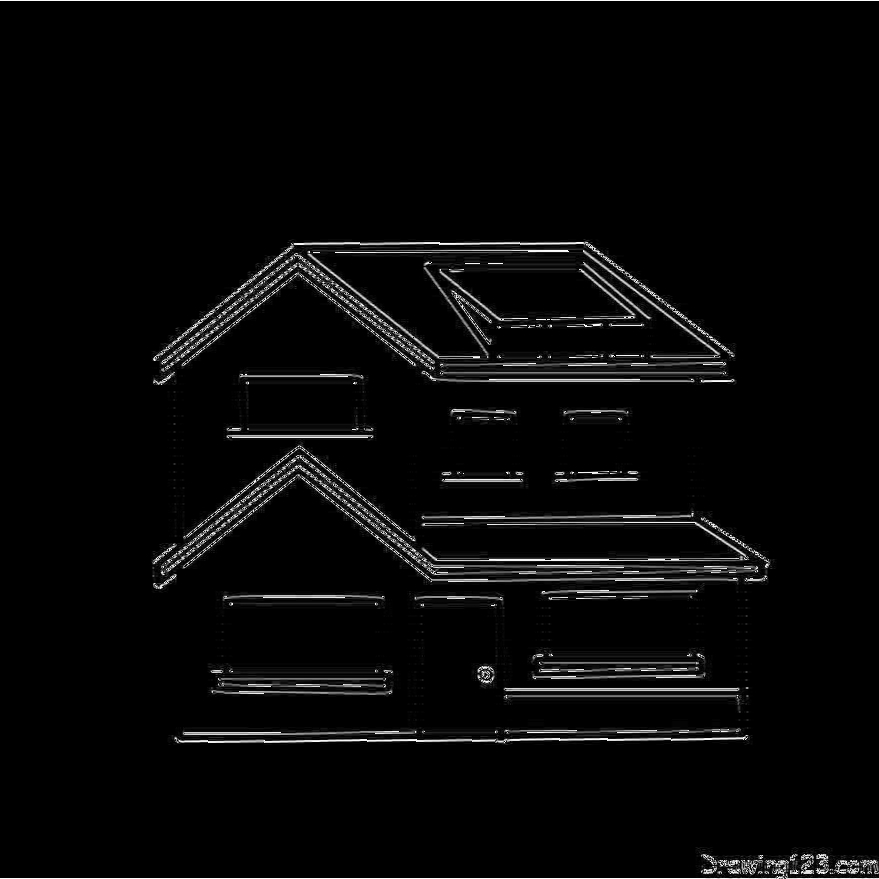
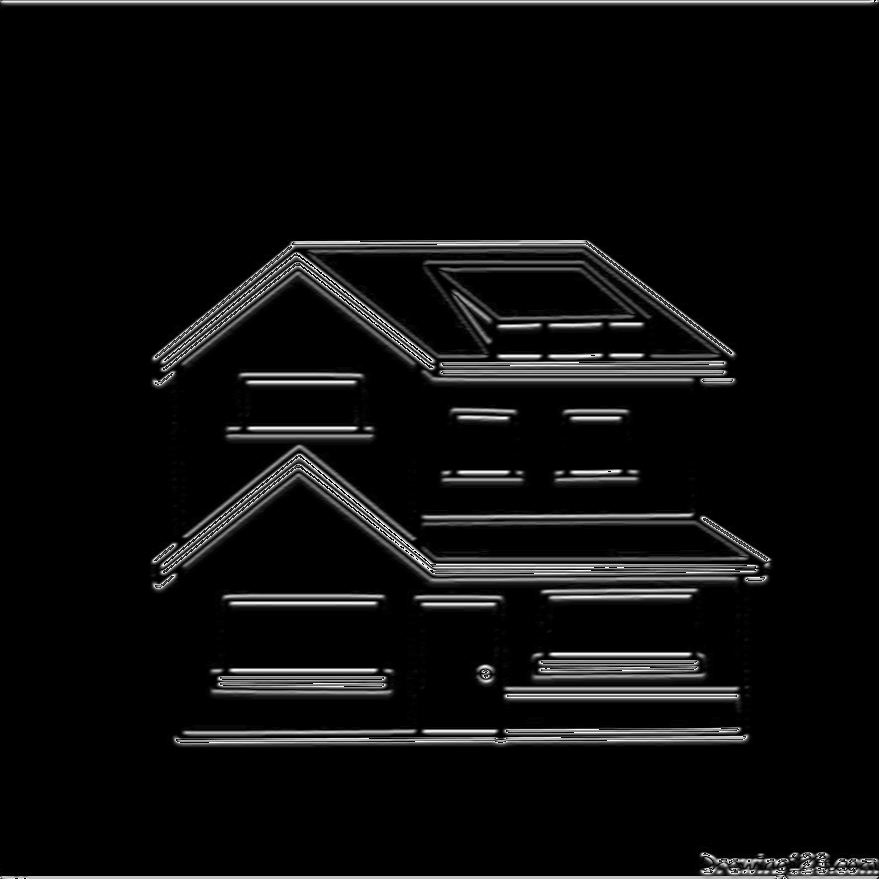
add(gaussian-blur)
added gaussian blur for smoothing the image before performing the rob compass mask filter

diff --git a/main.c b/main.c
@@ -10,8 +10,14 @@
 
 #define MAX_CHAR 32
 #define GRAY 1
-#define RGB 3
+// #define RGB 3
+#define GAUSSIAN_MASK_SIZE 5
+#define GAUSSIAN_SIGMA 5.0
 
+// For the PI value in C
+#ifndef M_PI
+#   define M_PI 3.14159265358979323846
+#endif
 
 void 
 robCompMask(unsigned char *img_out, unsigned char *img_in, int width, int height, const int mask[][3]) {
@@ -63,6 +69,78 @@ robCompMask(unsigned char *img_out, unsigned char *img_in, int width, int height
         }
     }
 }
+
+void gaussianBlurMask(unsigned char *img_in, int width, int height, double mask[GAUSSIAN_MASK_SIZE][GAUSSIAN_MASK_SIZE]) {
+    const int maxIndex = GAUSSIAN_MASK_SIZE / 2;
+    int sum, rowStart, colStart, maskRowIndex, maskColIndex, maxRow, maxCol;
+    for (int h = 0; h < height; h++) {
+        for (int w = 0; w < width; w++) {
+            // Reset sum 
+            sum = 0;
+
+            // Reset mask indices
+            rowStart = -maxIndex;
+            colStart = -maxIndex;
+            maskRowIndex = 0;
+            maskColIndex = 0;
+            maxRow = GAUSSIAN_MASK_SIZE;
+            maxCol = GAUSSIAN_MASK_SIZE;
+
+            // Center mask to the current pixel
+            if(h == 0) {
+                rowStart = 0;
+                maskRowIndex = maxIndex;
+                maxRow = GAUSSIAN_MASK_SIZE;
+            }
+            if(h == height - 1) {
+                rowStart = -maxIndex;
+                maskRowIndex = 0;
+                maxRow = maxIndex + 1;
+            }
+            if(w == 0) {
+                colStart = 0;
+                maskColIndex = maxIndex;
+                maxCol = GAUSSIAN_MASK_SIZE;
+            }
+            if(w == width - 1) {
+                colStart = -maxIndex;
+                maskColIndex = 0;
+                maxCol = maxIndex + 1;
+            }
+
+            // Apply the mask
+            for (int r = rowStart, mr = maskRowIndex; mr < maxRow; r++, mr++) {
+                for (int c = colStart, mc = maskColIndex; mc < maxCol; c++, mc++) {
+                    sum += img_in[(h + r) * width + (w + c)] * mask[mr][mc];
+                }
+            }
+
+            // Set the output pixel to the sum
+            img_in[h * width + w] = (unsigned char) abs(sum);
+        }
+    }
+}
+
+void generateGaussianBlurMask(double mask[GAUSSIAN_MASK_SIZE][GAUSSIAN_MASK_SIZE]) {
+    // Declare the Gaussian mask
+    double sum = 0;
+    int max_index = GAUSSIAN_MASK_SIZE / 2;
+    for (int r = -GAUSSIAN_MASK_SIZE/2; r <= max_index; r++) {
+        for (int c = -GAUSSIAN_MASK_SIZE/2; c <= max_index; c++) {
+            mask[r + max_index][c + max_index] = exp(-((double)(r * r + c * c)) / (double)(2 * GAUSSIAN_SIGMA * GAUSSIAN_SIGMA)) / (double)(2 * M_PI * GAUSSIAN_SIGMA * GAUSSIAN_SIGMA);
+            sum += mask[r + max_index][c + max_index];
+        }
+    }
+
+    // Normalize the Gaussian mask
+    for (int r = 0; r < GAUSSIAN_MASK_SIZE; r++) {
+        for (int c = 0; c < GAUSSIAN_MASK_SIZE; c++) {
+            mask[r][c] /= sum;
+        }
+    }
+}
+
+
 
 void generateOutputFilename(char* filename, char* output_filename, const char* direction) {
     // copy the filename to the output filename
@@ -124,6 +202,7 @@ int isFileTypeSupported(char* filename) {
     return 1; // return 1 if the filetype is supported
 }
 
+
 int main() {
     // Declare Robinson's Compass mask
     const int ROBINSON_COMPASS_MASK[8][3][3] = {
@@ -136,6 +215,8 @@ int main() {
         {{-1, -2, -1}, {0, 0, 0}, {1, 2, 1}}, // E
         {{-2, -1, 0}, {-1, 0, 1}, {0, 1, 2}}  // NE
     };
+    // Declare Gaussian Blur Mask initialized to zero
+    double gaussianMask[GAUSSIAN_MASK_SIZE][GAUSSIAN_MASK_SIZE] = { { 0 } };
 
     int width, height, channels;
     char filename[MAX_CHAR] = { 0 };
@@ -179,6 +260,14 @@ int main() {
         printf("Error in saving the output image.\n");
         return 1; // exit the program with 1 error
     }
+
+    printf("Before Gaussian Blur Mask generation\n");
+    // Generate Gaussian Blur mask
+    generateGaussianBlurMask(gaussianMask);
+    printf("Before Gaussian Blur\n");
+    // Apply Gaussian Blur mask to input image
+    gaussianBlurMask(img_in, width, height, gaussianMask);
+    printf("After Gaussian Blur\n");
 
     // Allocate memory for the output image
     img_out = (unsigned char *) malloc(width * height * channels * sizeof(unsigned char));
